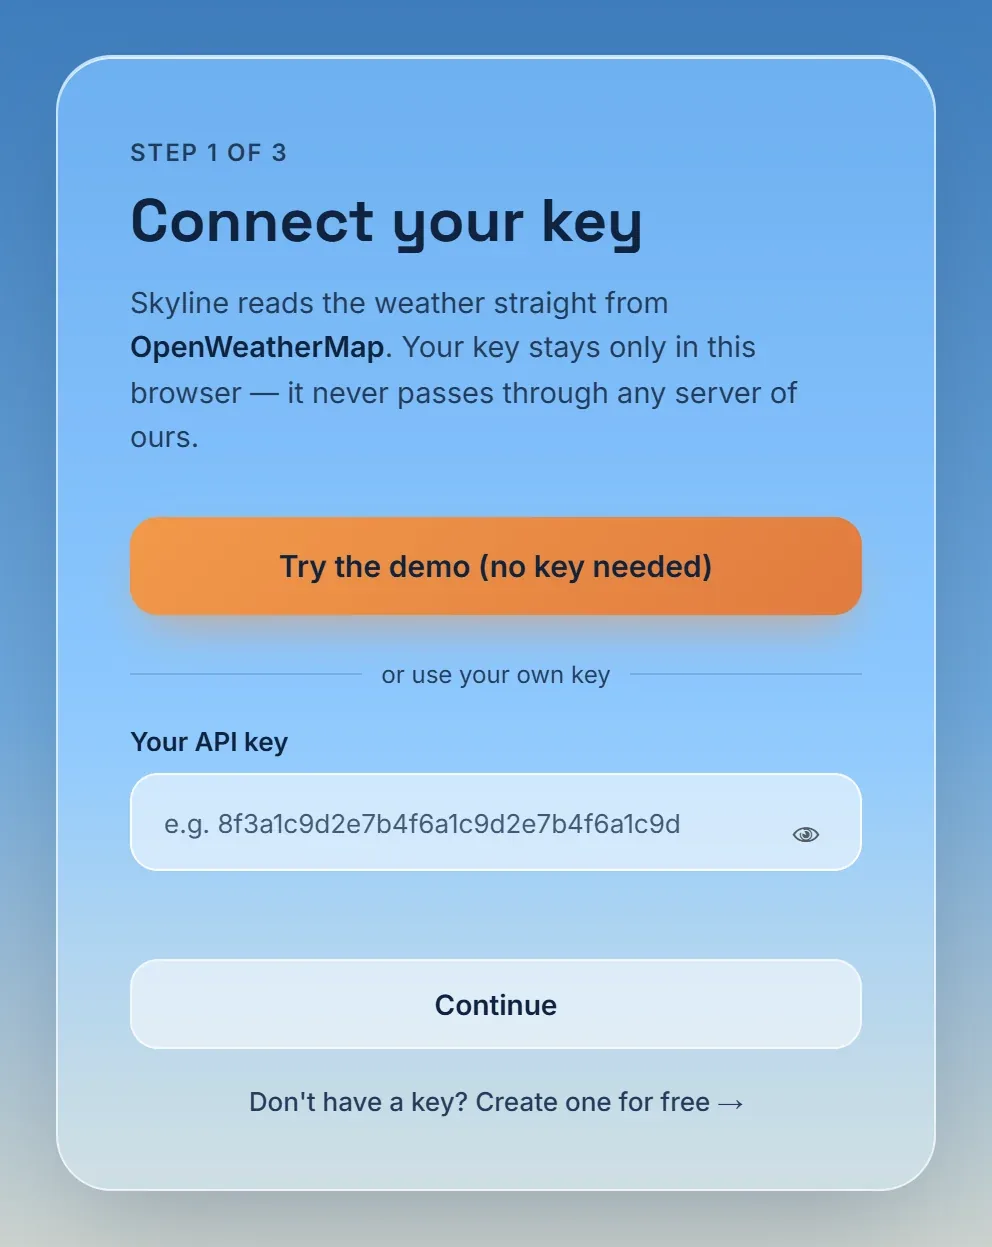
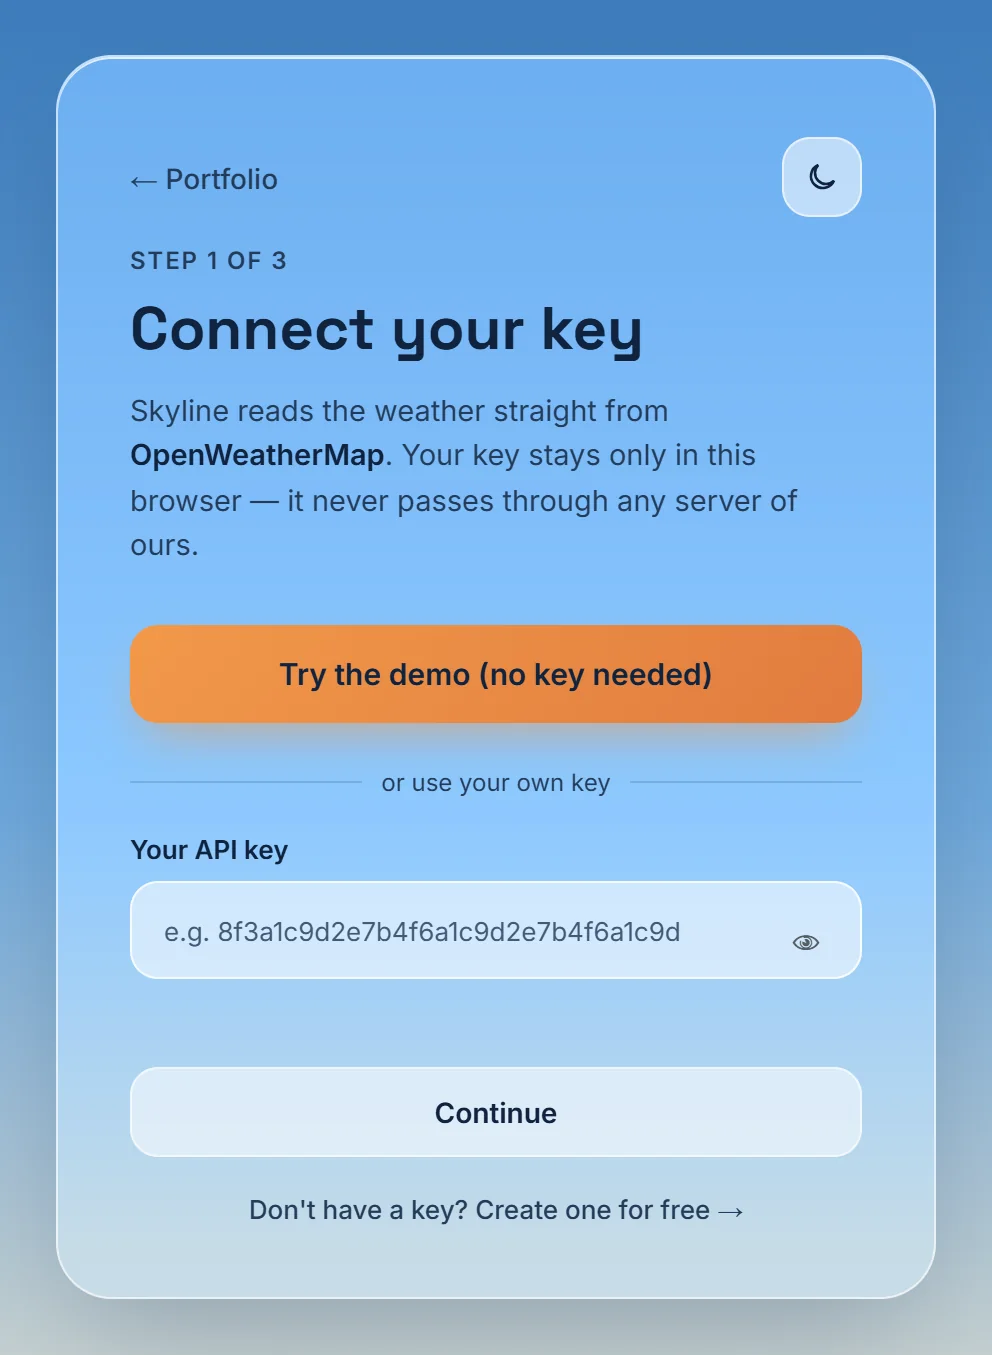
pictures: Note Organizer and Skyline's key screen follow the theme too
- Note Organizer: the card and the project page show the main window
  in the light theme or the dark one, both taken from the app's own
  site (img/main-window-light.webp and img/main-window.webp), with
  sample notes only.
- Skyline's design iteration shows one picture instead of the
  before/after pair: the key screen as it is now (the demo button
  first), by day or at night with the theme. The old "before" picture
  is no longer used.
- The theme button in the header showed the moon on a dark-mode
  computer with nothing saved; it shows the sun there now, as it does
  when dark is picked with the button.

Checked over local HTTP in headless Edge, saved light, saved dark,
system light and system dark: on the Portfolio tab and the Note
Organizer and Skyline pages the right picture of every pair is shown,
the hidden one is never requested, proportions kept; the header icon is
right in all four cases.

diff --git a/projects/skyline-weather.html b/projects/skyline-weather.html
@@ -117,18 +117,13 @@
           <li>The "Sample data" tag became an orange pill with dark text; orange text on the glass was about 1.2:1.</li>
           <li>Error text became a darker red: from about 3.4:1 to 5.1-6.3:1.</li>
         </ul>
-        <div class="case-pair">
-          <figure class="case-figure">
-            <img src="../images/skyline-case/login-before.webp" width="496" height="614" loading="lazy"
-                 alt="The old first screen: the API key field and an orange Continue button with white text, the demo as a pale button at the bottom">
-            <figcaption>Before: the key form first, white text on orange, the demo last.</figcaption>
-          </figure>
-          <figure class="case-figure">
-            <img src="../images/skyline-case/login-after.webp" width="496" height="623" loading="lazy"
-                 alt="The new first screen: an orange Try the demo button with dark text first, then the key form with a quieter Continue button">
-            <figcaption>After: the demo first, dark text on orange, darker secondary text.</figcaption>
-          </figure>
-        </div>
+        <figure class="case-figure">
+          <img class="shot-light" src="../images/skyline-case/login-after.webp" width="496" height="677" loading="lazy"
+               alt="The first screen by day: an orange Try the demo button with dark text first, then the key form with a quieter Continue button">
+          <img class="shot-dark" src="../images/skyline-case/login-after-dark.webp" width="496" height="677" loading="lazy"
+               alt="The first screen at night: an orange Try the demo button with dark text first, then the key form with a quieter Continue button">
+          <figcaption>The first screen now: the demo first, dark text on orange, darker secondary text.</figcaption>
+        </figure>
       </div>
 
       <div class="case-step">

diff --git a/projects/note-organizer.html b/projects/note-organizer.html
@@ -51,7 +51,8 @@
       </div>
 
       <div class="detail-media">
-        <img src="../images/note-organizer.webp" alt="The Note Organizer window: the note list on the left, a note with a table open on the right.">
+        <img class="shot-light" src="../images/note-organizer.webp" width="1400" height="1022" loading="lazy" alt="The Note Organizer window: the note list on the left, a note with a table open on the right.">
+        <img class="shot-dark" src="../images/note-organizer-dark.webp" width="1400" height="1022" loading="lazy" alt="The Note Organizer window: the note list on the left, a note with a table open on the right.">
       </div>
 
       <div class="facts-grid">

diff --git a/index.html b/index.html
@@ -380,7 +380,7 @@
       <div class="project-list">
 
         <a class="project-row" href="projects/note-organizer.html">
-          <div class="project-row-media"><img src="images/note-organizer.webp" alt="Note Organizer app screenshot" loading="lazy"></div>
+          <div class="project-row-media"><img class="shot-light" src="images/note-organizer.webp" alt="Note Organizer app screenshot" loading="lazy"><img class="shot-dark" src="images/note-organizer-dark.webp" alt="Note Organizer app screenshot" loading="lazy"></div>
           <div class="project-row-body">
             <div class="chip-row">
               <span class="chip chip-accent">Python</span>

diff --git a/styles.css b/styles.css
@@ -163,6 +163,11 @@ img { max-width: 100%; display: block; }
 .theme-toggle .icon-sun { display: none; }
 :root[data-theme="dark"] .theme-toggle .icon-moon { display: none; }
 :root[data-theme="dark"] .theme-toggle .icon-sun { display: block; }
+/* Dark from the system setting, with nothing saved: the same sun (it showed the moon). */
+@media (prefers-color-scheme: dark) {
+  :root:not([data-theme="light"]) .theme-toggle .icon-moon { display: none; }
+  :root:not([data-theme="light"]) .theme-toggle .icon-sun { display: block; }
+}
 
 /* ---------- Tabs ---------- */
 
